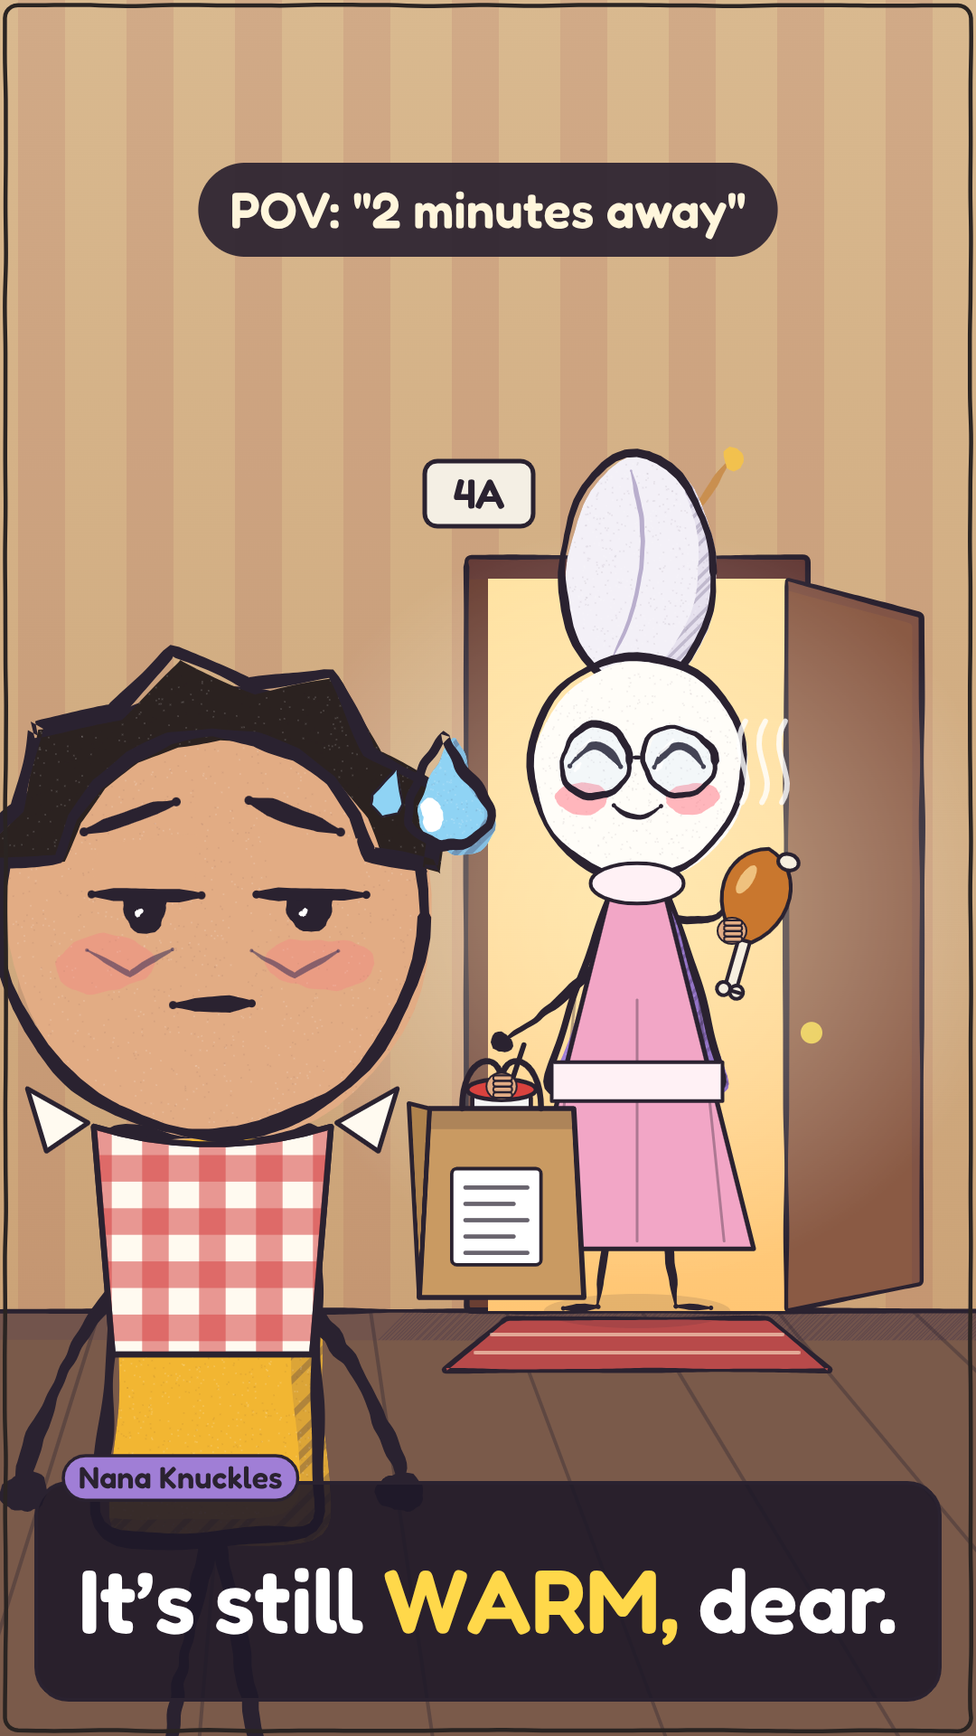
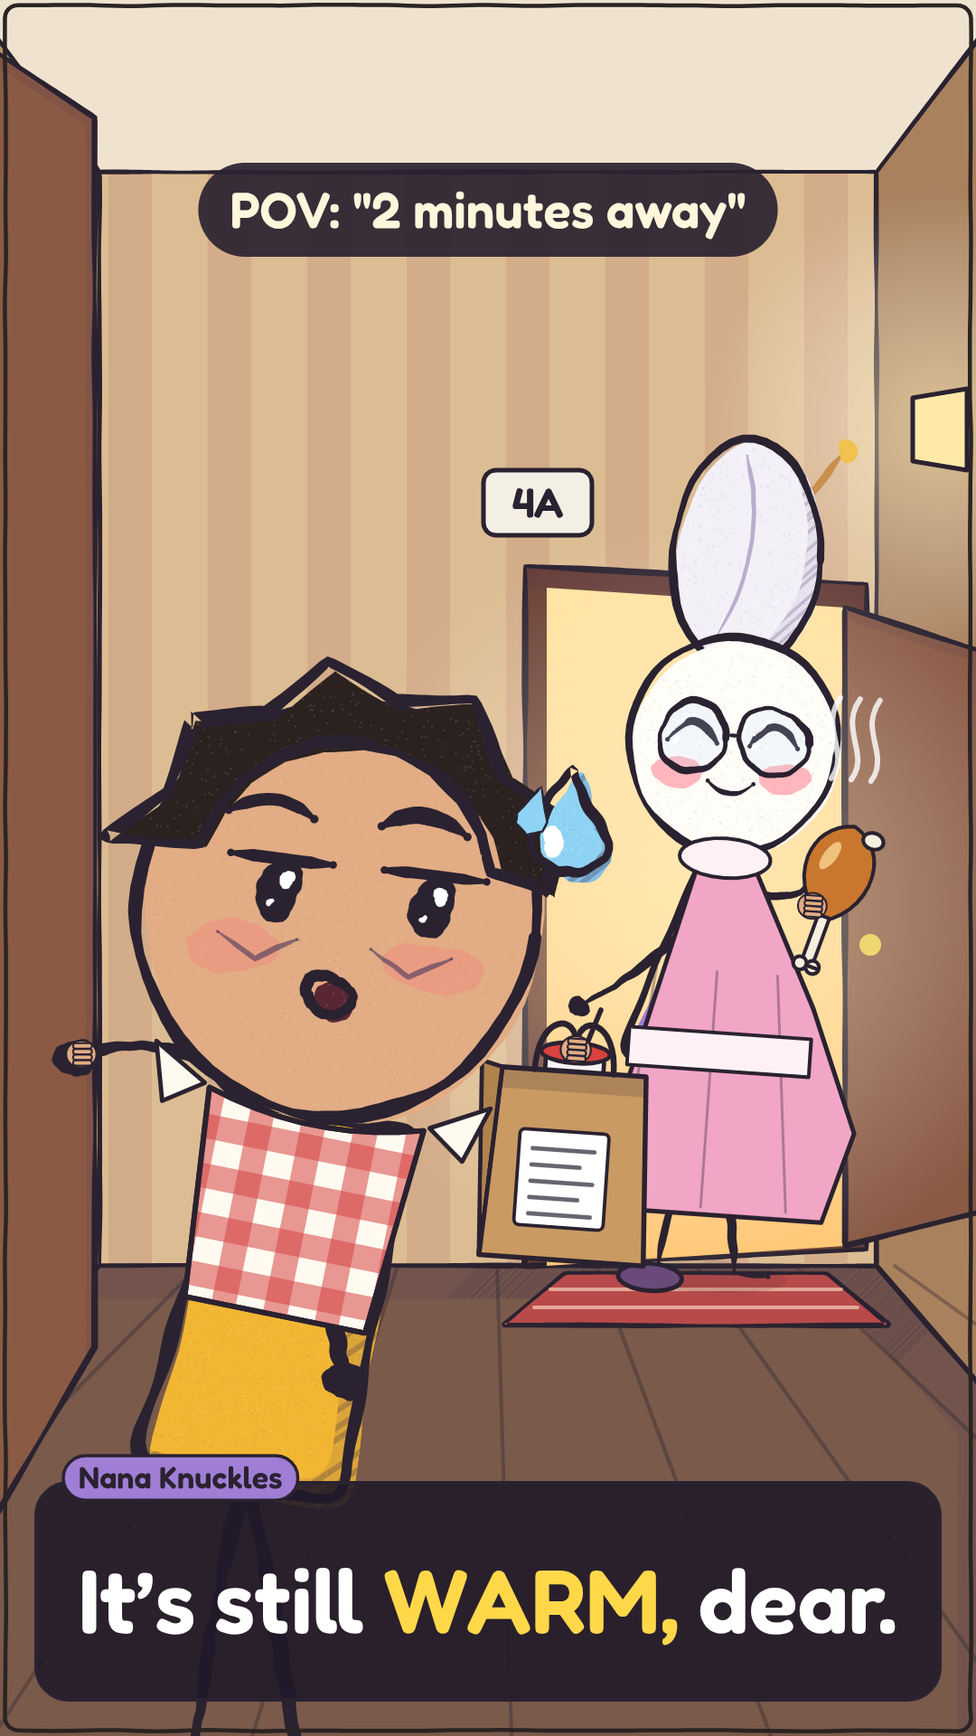
Tập 11 Two Minutes Away: key stills round 3 (owner notes)

diff --git a/episodes/20-two-minutes/film/stills.js b/episodes/20-two-minutes/film/stills.js
@@ -69,8 +69,8 @@ function drumstick(x, y, rot, sz = 1) {   // grip end at (x,y), meat towards -y
   ctx.fillStyle = '#f6efe0'; ctx.beginPath(); ctx.ellipse(28, -178, 14, 11, 0, 0, 7); ctx.fill(); ctx.stroke();   // bitten edge
   ctx.restore();
 }
-function napkin(x, y, w, k = 1) {   // bib tied round the neck at (x,y)=top centre
-  ctx.save(); ctx.translate(x, y); ctx.scale(k, k);
+function napkin(x, y, w, k = 1, rot = 0) {   // bib tied round the neck at (x,y)=top centre
+  ctx.save(); ctx.translate(x, y); ctx.rotate(rot); ctx.scale(k, k);
   outline(() => { ctx.moveTo(-w / 2, 0); ctx.quadraticCurveTo(0, 38, w / 2, 0); ctx.lineTo(w * 0.42, 240); ctx.lineTo(-w * 0.42, 240); ctx.closePath(); }, '#fffaf0', 6);
   ctx.save(); ctx.clip(); ctx.fillStyle = 'rgba(214,70,70,0.55)';
   for (let i = -4; i < 5; i++) ctx.fillRect(i * 60 - 14, 0, 28, 260); for (let j = 0; j < 5; j++) ctx.fillRect(-w, 30 + j * 56, 2 * w, 28); ctx.restore();
@@ -89,67 +89,86 @@ function candle(x, y, h, t) {
   outline(() => { ctx.ellipse(x, y - h - 34, 7, 14, 0, 0, 7); }, '#fff6b0', 0.1);
 }
 
+
+// place a leaning Steve so his head centre is at (hx,hy); returns body origin + helpers (lean th in radians, clockwise)
+function placeSteve(hx, hy, sc, th) { return { X: hx - 42 * sc * Math.sin(th), Y: hy + 38 * sc + 42 * sc * Math.cos(th), sc, th }; }
+function neckOf(P) { const { X, Y, sc, th } = P; return [X + 27 * sc * Math.sin(th) * -1 * -1, Y - 38 * sc - 27 * sc * Math.cos(th)]; }
+function handLocal(P, T) {   // arm pose that reaches world point T despite the lean
+  const { X, Y, sc, th } = P, px = X, py = Y - 38 * sc, vx = T[0] - px, vy = T[1] - py;
+  const ux = vx * Math.cos(th) + vy * Math.sin(th), uy = -vx * Math.sin(th) + vy * Math.cos(th);
+  const shY = Y - 60 * sc; return { hand: [ux / sc, (shY - (py + uy)) / sc], bend: [0, 4] };
+}
+function drool(x, y, len) { ctx.save(); ctx.strokeStyle = INK; ctx.fillStyle = '#d9f0ff'; ctx.lineWidth = 4; ctx.beginPath(); ctx.moveTo(x - 7, y); ctx.lineTo(x - 5, y + len); ctx.arc(x, y + len, 9, Math.PI, 0, true); ctx.lineTo(x + 7, y); ctx.closePath(); ctx.fill(); ctx.stroke(); ctx.restore(); }
+function squiggle(x, y, w, dir = 1) { ctx.save(); ctx.strokeStyle = INK; ctx.lineWidth = 7; ctx.lineCap = 'round'; ctx.lineJoin = 'round'; ctx.beginPath(); ctx.moveTo(x, y); for (let i = 1; i <= 5; i++) ctx.lineTo(x + dir * (i * w / 5), y + (i % 2 ? -16 : 16)); ctx.stroke(); ctx.restore(); }
+
 // ---------- STILL 1 · HOOK (glance test) ----------
 function still1(t) {
   SEED = 5;
   const g = ctx.createLinearGradient(0, 0, 0, H); g.addColorStop(0, '#2b2036'); g.addColorStop(1, '#4a2f3a'); ctx.fillStyle = g; ctx.fillRect(0, 0, W, H);
-  const p = spen(t, 3);
-  // table top
-  p.part(roundPoly([[-60, 900], [1140, 900], [1140, 1930], [-60, 1930]], 20), '#8e3b46', { shade: 0.1, lw: 6 });
-  ctx.save(); ctx.fillStyle = 'rgba(255,240,220,0.13)'; for (let i = 0; i < 9; i++) ctx.fillRect(i * 140 - 20, 900, 70, 1030); ctx.restore();
-  const s = 19, X = 540, hc0 = 625, Y = hc0 + 80 * s;
-  candle(905, 920, 100, t);
-  drawCharacter(ctx, 'steve', X, Y, s, { eyes: 'dot', lid: 0.55, brow: 'worried', mouth: 'line', fx: ['gloom', 'sweat'], look: 0, hair: 0, bags: 1, arm: 'down' }, { frame: boilFrame(t) });
-  const hc = headOf(X, Y, s); faceGlow(hc, 'rgba(255,120,90,0.45)', 0, 260);
-  // empty plate under the phone: clear white rim + well
+  const s = 19, X = 540, hc0 = 625, Y = hc0 + 80 * s, shY = Y - 60 * s;
+  glowBlob(540, 700, 600, 'rgba(255,170,90,0.18)');
+  drawCharacter(ctx, 'steve', X, Y, s, { eyes: 'dot', lid: 0.45, brow: 'worried', mouth: 'small', fx: ['gloom', 'sweat'], look: 0, hair: 0, bags: 1,
+    armL: armTo(X, shY, s, 120, 800, [0, 5]), armR: armTo(X, shY, s, 960, 800, [0, 5]) }, { frame: boilFrame(t) });
+  // extra dark sunken bags + drool
+  { const hc = headOf(X, Y, s); faceGlow(hc, 'rgba(255,120,90,0.4)', 0, 260);
+    ctx.save(); ctx.strokeStyle = 'rgba(60,30,50,0.55)'; ctx.lineWidth = 12; ctx.lineCap = 'round';
+    for (const ex of [-1, 1]) { ctx.beginPath(); ctx.arc(X + ex * 7.2 * s, hc0 + 6 * s, 58, 0.25 * Math.PI, 0.75 * Math.PI); ctx.stroke(); } ctx.restore();
+    drool(X + 20, hc0 + 6.8 * s, 70); }
+  napkin(X, hc0 + 15 * s - 6, 250, 1.25);
+  // table top edge (hides his lap) with cloth drape
+  const tp = spen(t, 3);
+  tp.part(roundPoly([[-60, 1250], [1140, 1250], [1140, 1930], [-60, 1930]], 12), '#8e3b46', { shade: 0.1, lw: 6 });
+  ctx.save(); ctx.fillStyle = 'rgba(255,240,220,0.13)'; for (let i = 0; i < 9; i++) ctx.fillRect(i * 140 - 20, 1262, 70, 670); ctx.restore();
+  ctx.fillStyle = 'rgba(0,0,0,0.25)'; ctx.fillRect(0, 1250, W, 16);
+  candle(985, 1245, 90, t);
+  squiggle(280, 1110, 80, -1); squiggle(800, 1110, 80, 1); squiggle(300, 1170, 70, -1); squiggle(780, 1170, 70, 1);   // stomach growl
+  // empty plate with a clear white rim, phone propped on it
   ctx.save(); ctx.shadowColor = 'rgba(0,0,0,0.45)'; ctx.shadowBlur = 24; ctx.shadowOffsetY = 12;
-  outline(() => { ctx.ellipse(540, 1480, 545, 235, 0, 0, 7); }, '#fbfaf5', 8); ctx.restore();
-  outline(() => { ctx.ellipse(540, 1495, 440, 175, 0, 0, 7); }, '#e8e5db', 4);
-  // arms: sleeves from the shoulders (behind the phone) up to fists holding the knife and fork
-  for (const [hx, sx] of [[115, 1], [965, -1]]) {
-    const pts = [[540 - sx * 150 * -1 * -1, 0]];
-    ctx.save(); ctx.lineCap = 'round'; ctx.lineJoin = 'round';
-    const path = () => { ctx.beginPath(); ctx.moveTo(540 + (hx < 540 ? -150 : 150), 925); ctx.quadraticCurveTo(hx < 540 ? 80 : 1000, 975, hx, 800); };
-    ctx.strokeStyle = INK; ctx.lineWidth = 36; path(); ctx.stroke(); ctx.strokeStyle = '#e2b23c'; ctx.lineWidth = 24; path(); ctx.stroke(); ctx.restore();
-  }
-  knife(115, 855, 160); fist(115, 805); fork(965, 855, 160); fist(965, 805);
-  // phone (dark bezel, notch, light screen) propped on the plate; red badge only behind the text
-  const px = 540, py = 1255, pw = 960, ph = 650; glowBlob(px, py, 760, 'rgba(255,90,70,0.3)');
-  ctx.save(); ctx.translate(px, py); const q = spen(0.1, 9);
-  q.part(roundPoly([[-pw / 2, -ph / 2], [pw / 2, -ph / 2], [pw / 2, ph / 2], [-pw / 2, ph / 2]], 64), '#1b1f33', { shade: 0.08, lw: 7 });
-  ctx.fillStyle = '#f6f7fc'; ctx.beginPath(); ctx.roundRect(-pw / 2 + 38, -ph / 2 + 30, pw - 76, ph - 60, 34); ctx.fill();
-  ctx.fillStyle = '#1b1f33'; ctx.beginPath(); ctx.roundRect(-pw / 2 + 38, -34, 20, 68, 10); ctx.fill();   // notch / camera pill on the left edge
-  ctx.fillStyle = '#d9dcec'; ctx.beginPath(); ctx.roundRect(pw / 2 - 38 - 14, -60, 6, 120, 3); ctx.fill();
-  // scooter icon (no logo)
-  ctx.save(); ctx.translate(0, -208); ctx.strokeStyle = INK; ctx.fillStyle = INK; ctx.lineWidth = 11; ctx.lineCap = 'round'; ctx.lineJoin = 'round';
+  outline(() => { ctx.ellipse(540, 1520, 520, 175, 0, 0, 7); }, '#fbfaf5', 8); ctx.restore();
+  outline(() => { ctx.ellipse(540, 1530, 420, 130, 0, 0, 7); }, '#e8e5db', 4);
+  knife(120, 850, 160); fist(120, 800); fork(960, 850, 160); fist(960, 800);
+  const px = 540, py = 1385, pw = 800, ph = 520; glowBlob(px, py, 600, 'rgba(255,90,70,0.25)');
+  ctx.save(); ctx.translate(px, py); ctx.rotate(-0.045); const q = spen(0.1, 9);
+  q.part(roundPoly([[-pw / 2, -ph / 2], [pw / 2, -ph / 2], [pw / 2, ph / 2], [-pw / 2, ph / 2]], 56), '#1b1f33', { shade: 0.08, lw: 7 });
+  ctx.fillStyle = '#f6f7fc'; ctx.beginPath(); ctx.roundRect(-pw / 2 + 32, -ph / 2 + 26, pw - 64, ph - 52, 30); ctx.fill();
+  ctx.fillStyle = '#1b1f33'; ctx.beginPath(); ctx.roundRect(-pw / 2 + 32, -30, 18, 60, 9); ctx.fill();
+  ctx.save(); ctx.translate(0, -160); ctx.scale(0.8, 0.8); ctx.strokeStyle = INK; ctx.fillStyle = INK; ctx.lineWidth = 11; ctx.lineCap = 'round'; ctx.lineJoin = 'round';
   for (const wx of [-62, 62]) { ctx.beginPath(); ctx.arc(wx, 30, 24, 0, 7); ctx.stroke(); }
   ctx.beginPath(); ctx.moveTo(-62, 30); ctx.lineTo(-30, 30); ctx.lineTo(0, -4); ctx.lineTo(40, -4); ctx.lineTo(62, 30); ctx.stroke();
   ctx.beginPath(); ctx.moveTo(40, -4); ctx.lineTo(28, -40); ctx.lineTo(50, -40); ctx.stroke(); ctx.beginPath(); ctx.roundRect(-92, -34, 62, 40, 8); ctx.fill(); ctx.restore();
-  ctx.fillStyle = '#e8262f'; ctx.beginPath(); ctx.roundRect(-400, -100, 800, 290, 60); ctx.fill(); ctx.lineWidth = 8; ctx.strokeStyle = INK; ctx.stroke();
-  ctx.lineJoin = 'round'; ctx.lineWidth = 18; ctx.font = '600 270px Fredoka'; ctx.textAlign = 'center'; ctx.textBaseline = 'middle';
-  ctx.strokeText('2 MIN', 0, 55); ctx.fillStyle = '#fff6dc'; ctx.fillText('2 MIN', 0, 55);
+  ctx.fillStyle = '#e8262f'; ctx.beginPath(); ctx.roundRect(-310, -75, 620, 240, 52); ctx.fill(); ctx.lineWidth = 8; ctx.strokeStyle = INK; ctx.stroke();
+  ctx.lineJoin = 'round'; ctx.lineWidth = 16; ctx.font = '600 225px Fredoka'; ctx.textAlign = 'center'; ctx.textBaseline = 'middle';
+  ctx.strokeText('2 MIN', 0, 48); ctx.fillStyle = '#fff6dc'; ctx.fillText('2 MIN', 0, 48);
   ctx.restore();
   { const dp = spen(t, 31); drop(dp, 150, 520, 26, 0.3); drop(dp, 905, 440, 22, -0.2); }
   title(); plate('steve', ['Two MINUTES.'], ['MINUTES']);
 }
 
-// ---------- hallway (stills 2 + 3) ----------
+// ---------- hallway in perspective (stills 2 + 3) ----------
 function hall(t, doorX, doorW, doorTop, floorY, lx = doorX - doorW / 2 - 10, ly = doorTop - 94) {
+  const FL = 110, FR = 970;   // far wall spans FL..FR; side walls recede to the viewer
   const g = ctx.createLinearGradient(0, 0, 0, H); g.addColorStop(0, '#d9b98f'); g.addColorStop(1, '#c79c70'); ctx.fillStyle = g; ctx.fillRect(0, 0, W, H);
-  ctx.save(); ctx.fillStyle = 'rgba(150,60,70,0.12)'; for (let x = 20; x < W; x += 120) ctx.fillRect(x, 0, 52, floorY); ctx.restore();   // wallpaper stripes
   const p = spen(t, 3);
-  p.part(roundPoly([[-40, floorY], [1120, floorY], [1120, 1940], [-40, 1940]], 6), '#7a5a4a', { shade: 0.1, lw: 6 });
-  ctx.save(); ctx.strokeStyle = 'rgba(42,34,48,0.35)'; ctx.lineWidth = 4; for (let i = 0; i < 8; i++) { ctx.beginPath(); ctx.moveTo(i * 150 - 40, floorY); ctx.lineTo(i * 260 - 300, 1930); ctx.stroke(); } ctx.restore();
-  // open door: lit interior, frame, door leaf swung
-  p.part(roundPoly([[doorX - doorW / 2 - 24, doorTop - 24], [doorX + doorW / 2 + 24, doorTop - 24], [doorX + doorW / 2 + 24, floorY], [doorX - doorW / 2 - 24, floorY]], 6), '#6a3f33', { shade: 0.1, lw: 6 });
+  p.part(roundPoly([[FL, 190], [FR, 190], [FR, floorY], [FL, floorY]], 2), '#dcbc92', { shade: false, lw: 5 });
+  ctx.save(); ctx.fillStyle = 'rgba(150,60,70,0.12)'; for (let x = FL + 10; x < FR; x += 110) ctx.fillRect(x, 190, 48, floorY - 190); ctx.restore();
+  p.part([[-20, 20], [FL, 190], [FL, floorY], [-20, floorY + 150]], '#b98f68', { shade: false, lw: 5 });          // left wall
+  p.part([[1100, 20], [FR, 190], [FR, floorY], [1100, floorY + 150]], '#a9815d', { shade: false, lw: 5 });         // right wall
+  p.part([[-20, -20], [1100, -20], [1100, 20], [FR, 190], [FL, 190], [-20, 20]], '#efe3cf', { shade: false, lw: 5 }); // ceiling
+  p.part([[-20, floorY + 150], [FL, floorY], [FR, floorY], [1100, floorY + 150], [1100, 1950], [-20, 1950]], '#7a5a4a', { shade: 0.1, lw: 5 });
+  ctx.save(); ctx.strokeStyle = 'rgba(42,34,48,0.35)'; ctx.lineWidth = 4;
+  for (let i = -3; i <= 9; i++) { const x0 = FL + i * 110; ctx.beginPath(); ctx.moveTo(x0, floorY); ctx.lineTo(540 + (x0 - 540) * 2.7, 1950); ctx.stroke(); } ctx.restore();
+  // wall sconce on the right wall
+  glowBlob(1040, 470, 260, 'rgba(255,225,150,0.55)'); outline(() => { ctx.moveTo(1010, 440); ctx.lineTo(1070, 430); ctx.lineTo(1070, 520); ctx.lineTo(1010, 510); ctx.closePath(); }, '#ffe9a8', 5);
+  // open door (opening slightly skewed in perspective), lit interior, frame, leaf swung toward the viewer
+  const L = doorX - doorW / 2, R = doorX + doorW / 2;
+  p.part([[L - 24, doorTop - 24], [R + 24, doorTop - 4], [R + 24, floorY - 18], [L - 24, floorY]], '#6a3f33', { shade: 0.1, lw: 6 });
   const ig = ctx.createLinearGradient(0, doorTop, 0, floorY); ig.addColorStop(0, '#ffe2a0'); ig.addColorStop(1, '#ffc674');
-  ctx.fillStyle = ig; ctx.fillRect(doorX - doorW / 2, doorTop, doorW, floorY - doorTop);
-  p.part(roundPoly([[doorX + doorW / 2, doorTop], [doorX + doorW / 2 + 150, doorTop + 40], [doorX + doorW / 2 + 150, floorY - 30], [doorX + doorW / 2, floorY]], 4), '#8a5a44', { shade: 0.1, lw: 6 });
-  ctx.fillStyle = '#e8c84a'; ctx.beginPath(); ctx.arc(doorX + doorW / 2 + 28, floorY * 0.62 + doorTop * 0.38, 12, 0, 7); ctx.fill();
+  ctx.fillStyle = ig; ctx.beginPath(); ctx.moveTo(L, doorTop); ctx.lineTo(R, doorTop + 22); ctx.lineTo(R, floorY - 22); ctx.lineTo(L, floorY); ctx.fill();
+  p.part([[R, doorTop + 22], [R + 150, doorTop + 70], [R + 150, floorY - 60], [R, floorY - 22]], '#8a5a44', { shade: 0.1, lw: 6 });
+  ctx.fillStyle = '#e8c84a'; ctx.beginPath(); ctx.arc(R + 28, (doorTop + floorY) / 2 + 20, 12, 0, 7); ctx.fill();
   outline(() => { ctx.roundRect(lx - 60, ly - 36, 120, 72, 14); }, '#f4efe4', 5); text('4A', lx, ly + 2, 46, INK);
-  // flat welcome mat in perspective (wider at the front edge), thin stripes
-  p.part(roundPoly([[doorX - doorW / 2 + 20, floorY + 8], [doorX + doorW / 2 - 20, floorY + 8], [doorX + doorW / 2 + 50, floorY + 66], [doorX - doorW / 2 - 50, floorY + 66]], 4), '#b84a4a', { shade: false, lw: 5 });
-  ctx.save(); ctx.strokeStyle = 'rgba(255,230,200,0.6)'; ctx.lineWidth = 4; ctx.beginPath(); ctx.moveTo(doorX - doorW / 2 + 4, floorY + 26); ctx.lineTo(doorX + doorW / 2 - 4, floorY + 26); ctx.moveTo(doorX - doorW / 2 - 14, floorY + 46); ctx.lineTo(doorX + doorW / 2 + 14, floorY + 46); ctx.stroke(); ctx.restore();
+  p.part(roundPoly([[L + 20, floorY + 8], [R - 20, floorY + 8], [R + 50, floorY + 66], [L - 50, floorY + 66]], 4), '#b84a4a', { shade: false, lw: 5 });
+  ctx.save(); ctx.strokeStyle = 'rgba(255,230,200,0.6)'; ctx.lineWidth = 4; ctx.beginPath(); ctx.moveTo(L + 4, floorY + 26); ctx.lineTo(R - 4, floorY + 26); ctx.moveTo(L - 14, floorY + 46); ctx.lineTo(R + 14, floorY + 46); ctx.stroke(); ctx.restore();
 }
 function bag(x, y, k = 1) {   // takeaway bag hanging from (x,y): cup lid + straw peeking out, receipt sticker, twisted handles
   ctx.save(); ctx.translate(x, y); ctx.scale(k, k); ctx.strokeStyle = INK; ctx.lineWidth = 6; ctx.lineJoin = 'round'; ctx.lineCap = 'round';
@@ -164,48 +183,56 @@ function bag(x, y, k = 1) {   // takeaway bag hanging from (x,y): cup lid + stra
   ctx.strokeStyle = INK; ctx.lineWidth = 7; ctx.beginPath(); ctx.moveTo(-46, 30); ctx.bezierCurveTo(-46, -34, 0, -40, 0, 0); ctx.bezierCurveTo(0, -40, 46, -34, 46, 30); ctx.stroke();   // handles
   ctx.restore();
 }
-function nanaDraw(t, X, Y, s, hands) {
-  drawCharacter(ctx, 'nana', X, Y, s, { expr: 'happy', mouth: 'smile', eyes: 'happy', fx: ['blush'], ...hands }, { frame: boilFrame(t) });
-  // dressing gown over the dress: pink quilted robe, belt, fluffy collar
-  const sc = s;
-  outline(() => { ctx.moveTo(X - 3 * sc, Y - 56 * sc); ctx.lineTo(X + 3 * sc, Y - 56 * sc); ctx.lineTo(X + 15 * sc, Y - 8 * sc); ctx.lineTo(X - 15 * sc, Y - 8 * sc); ctx.closePath(); }, '#f2a6c6', 5);
-  ctx.save(); ctx.strokeStyle = 'rgba(42,34,48,0.35)'; ctx.lineWidth = 3; for (const dx of [-8, 0, 8]) { ctx.beginPath(); ctx.moveTo(X + dx * sc, Y - 40 * sc); ctx.lineTo(X + dx * sc * 1.4, Y - 9 * sc); ctx.stroke(); } ctx.restore();
-  outline(() => { ctx.rect(X - 11 * sc, Y - 32 * sc, 22 * sc, 5 * sc); }, '#fff1f5', 4);
-  outline(() => { ctx.ellipse(X, Y - 55 * sc, 6 * sc, 2.6 * sc, 0, 0, 7); }, '#fff1f5', 4);
+function nanaScene(t, X, Y, s, rot, hands, props) {   // whole-body cosy lean around the feet, hip out, front foot forward
+  ctx.save(); ctx.translate(X, Y); ctx.rotate(rot); ctx.translate(-X, -Y);
+  drawCharacter(ctx, 'nana', X, Y, s, { expr: 'happy', mouth: 'smile', eyes: 'happy', fx: ['blush'], tilt: -6, ...hands }, { frame: boilFrame(t) });
+  outline(() => { ctx.moveTo(X - 3 * s, Y - 56 * s); ctx.lineTo(X + 3 * s, Y - 56 * s); ctx.lineTo(X + 13 * s, Y - 36 * s); ctx.lineTo(X + 19.5 * s, Y - 20 * s); ctx.lineTo(X + 16 * s, Y - 8 * s); ctx.lineTo(X - 15 * s, Y - 8 * s); ctx.closePath(); }, '#f2a6c6', 5);
+  ctx.save(); ctx.strokeStyle = 'rgba(42,34,48,0.35)'; ctx.lineWidth = 3; for (const dx of [-8, 0, 8]) { ctx.beginPath(); ctx.moveTo(X + dx * s, Y - 40 * s); ctx.lineTo(X + dx * s * 1.4, Y - 9 * s); ctx.stroke(); } ctx.restore();
+  outline(() => { ctx.rect(X - 11 * s, Y - 32 * s, 24 * s, 5 * s); }, '#fff1f5', 4);
+  outline(() => { ctx.ellipse(X, Y - 55 * s, 6 * s, 2.6 * s, 0, 0, 7); }, '#fff1f5', 4);
+  outline(() => { ctx.ellipse(X - 6 * s, Y + 6, 4.2 * s, 1.8 * s, 0, 0, 7); }, '#6a4a7a', 5);   // front slipper
+  props && props();
+  ctx.restore();
 }
 
 // ---------- STILL 2 · beat 8 ----------
 function still2(t) {
-  SEED = 9; hall(t, 705, 330, 640, 1450);
-  const ns = 8.6, NX = 705, NY = 1450, nshY = NY - 52 * 0.9 * ns;
-  // Nana: left arm (screen left) holds the bag, right arm lifts the drumstick to her smile
+  SEED = 9; hall(t, 770, 330, 650, 1400);
+  const ns = 8.4, NX = 770, NY = 1410, nshY = NY - 52 * 0.9 * ns;
   glowBlob(NX, 1000, 420, 'rgba(255,220,150,0.5)');
-  nanaDraw(t, NX, NY, ns, { armL: armTo(NX, nshY, ns * 0.9, NX - 150, nshY + 150, [0, -2]), armR: armTo(NX, nshY, ns * 0.9, NX + 105, nshY - 20, [3, -3]) });
-  bag(NX - 150, nshY + 150, 0.95); fist(NX - 150, nshY + 154, 0.42);
-  drumstick(NX + 105, nshY + 40, 0.28, 0.82); fist(NX + 105, nshY - 18, 0.4);
-  // steam from the food
-  ctx.save(); ctx.strokeStyle = 'rgba(255,255,255,0.8)'; ctx.lineWidth = 6; ctx.lineCap = 'round'; for (const dx of [-14, 8, 30]) { ctx.beginPath(); ctx.moveTo(NX + 130 + dx, nshY - 160); ctx.bezierCurveTo(NX + 150 + dx, nshY - 190, NX + 112 + dx, nshY - 215, NX + 134 + dx, nshY - 250); ctx.stroke(); } ctx.restore();
-  // Steve in the foreground-left with the napkin bib, looking across the hall
-  const s = 16, X = 235, hc0 = 1010, Y = hc0 + 80 * s, shY = Y - 60 * s;
-  drawCharacter(ctx, 'steve', X, Y, s, { eyes: 'dot', lid: 0.5, brow: 'worried', mouth: 'line', fx: ['sweat'], look: 0.9, hair: 0, bags: 1 }, { frame: boilFrame(t) });
-  napkin(X, hc0 + 15 * s - 4, 250, 1.05);
-  { const dp = spen(t, 31); drop(dp, 430, 880, 22, 0.3); }
-  title(); plate('nana', ['It’s still WARM, dear.'], ['WARM']);
+  nanaScene(t, NX, NY, ns, 0.07, { armL: armTo(NX, nshY, ns * 0.9, NX - 150, nshY + 150, [0, -2]), armR: armTo(NX, nshY, ns * 0.9, NX + 100, nshY - 25, [3, -3]) }, () => {
+    bag(NX - 150, nshY + 150, 0.95); fist(NX - 150, nshY + 154, 0.42);
+    drumstick(NX + 100, nshY + 35, 0.28, 0.82); fist(NX + 100, nshY - 23, 0.4);
+    ctx.save(); ctx.strokeStyle = 'rgba(255,255,255,0.8)'; ctx.lineWidth = 6; ctx.lineCap = 'round'; for (const dx of [-14, 8, 30]) { ctx.beginPath(); ctx.moveTo(NX + 125 + dx, nshY - 165); ctx.bezierCurveTo(NX + 145 + dx, nshY - 195, NX + 107 + dx, nshY - 220, NX + 129 + dx, nshY - 255); ctx.stroke(); } ctx.restore();
+  });
+  // Steve half out of his own door (left edge), twisted toward her, hand on the doorknob
+  const sd = spen(t, 5); sd.part([[-30, 40], [105, 130], [105, 1490], [-30, 1720]], '#8a5a44', { shade: 0.1, lw: 6 });
+  ctx.fillStyle = '#e8c84a'; ctx.beginPath(); ctx.arc(80, 1170, 16, 0, 7); ctx.fill(); ctx.strokeStyle = INK; ctx.lineWidth = 4; ctx.stroke();
+  const s = 15, th = 0.2, P = placeSteve(395, 1010, s, th), knob = [84, 1170];
+  drawCharacter(ctx, 'steve', P.X, P.Y, s, { eyes: 'dot', lid: 0.1, brow: 'raised', mouth: 'small', fx: ['sweat'], look: 0.9, hair: 0, bags: 1, lean: th * 180 / Math.PI, tilt: -5,
+    armL: handLocal(P, knob), armR: { hand: [6, -14], bend: [0, 2] } }, { frame: boilFrame(t) });
+  const nk = neckOf(P); napkin(nk[0], nk[1] - 4, 250, s / 15.5, th); fist(knob[0] + 6, knob[1] - 4, 0.42);
+  { const dp = spen(t, 31); drop(dp, 590, 900, 22, 0.3); }
+  title(); plate('nana', ['It\u2019s still WARM, dear.'], ['WARM']);
 }
 
 // ---------- STILL 3 · beat 9 punch ----------
 function still3(t) {
-  SEED = 12; hall(t, 840, 300, 610, 1450, 985, 440);
-  const ns = 8.2, NX = 850, NY = 1450, nshY = NY - 52 * 0.9 * ns;
-  glowBlob(NX, 1000, 400, 'rgba(255,220,150,0.5)');
-  nanaDraw(t, NX, NY, ns, { armL: armTo(NX, nshY, ns * 0.9, NX - 120, nshY + 140, [0, -2]), armR: armTo(NX, nshY, ns * 0.9, NX + 105, nshY - 150, [5, -3]) });
-  bag(NX - 120, nshY + 140, 0.9); fist(NX - 120, nshY + 144, 0.38);
-  drumstick(NX + 105, nshY - 130, 0.3, 0.8); fist(NX + 105, nshY - 150, 0.38);
-  const s = 21, X = 360, hc0 = 790, Y = hc0 + 80 * s, shY = Y - 60 * s;
-  drawCharacter(ctx, 'steve', X, Y, s, { eyes: 'dot', lid: 0.6, brow: undefined, mouth: 'line', fx: ['gloom', 'sweat'], look: 0.3, hair: 0, bags: 1 }, { frame: boilFrame(t) });
-  napkin(X, hc0 + 15 * s - 4, 300, 1.35);
-  { const dp = spen(t, 31); drop(dp, 700, 640, 26, 0.3); }
-  title(); plate('steve', ['…Enjoy.'], ['Enjoy']);
+  SEED = 12; hall(t, 880, 300, 620, 1400, 700, 480);
+  const ns = 9.4, NX = 860, NY = 1420, nshY = NY - 52 * 0.9 * ns;
+  glowBlob(NX, 1000, 420, 'rgba(255,220,150,0.5)');
+  nanaScene(t, NX, NY, ns, -0.05, { armL: armTo(NX, nshY, ns * 0.9, NX - 130, nshY + 150, [0, -2]), armR: armTo(NX, nshY, ns * 0.9, NX + 115, nshY - 170, [5, -3]) }, () => {
+    bag(NX - 130, nshY + 150, 0.9); fist(NX - 130, nshY + 154, 0.4);
+    ctx.save(); ctx.strokeStyle = INK; ctx.lineWidth = 6; ctx.lineCap = 'round';   // wave motion arcs
+    for (const a of [-2.3, -1.7, -1.1, -0.5]) { ctx.beginPath(); ctx.moveTo(NX + 125 + Math.cos(a) * 85, nshY - 250 + Math.sin(a) * 85); ctx.lineTo(NX + 125 + Math.cos(a) * 125, nshY - 250 + Math.sin(a) * 125); ctx.stroke(); }
+    ctx.restore();
+    drumstick(NX + 115, nshY - 150, 0.4, 0.86); fist(NX + 115, nshY - 170, 0.4);
+  });
+  const s = 23, th = 0.1, P = placeSteve(350, 800, s, th);
+  drawCharacter(ctx, 'steve', P.X, P.Y, s, { expr: 'dead_inside', lid: 0.72, brow: undefined, mouth: 'line', fx: ['gloom'], look: 0, hair: 0, bags: 1, lean: th * 180 / Math.PI, tilt: -9, headDy: -1.5 }, { frame: boilFrame(t) });
+  const nk = neckOf(P); napkin(nk[0], nk[1] - 4, 250, s / 15.5, th);
+  { const dp = spen(t, 31); drop(dp, 585, 740, 26, 0.3); }
+  title(); plate('steve', ['\u2026Enjoy.'], ['Enjoy']);
 }
 const STILLS = [still1, still2, still3];
 function render(i) {

diff --git a/episodes/20-two-minutes/STILLS-REVIEW.md b/episodes/20-two-minutes/STILLS-REVIEW.md
@@ -27,3 +27,12 @@ Checked against script.md, QA.md (Glance test, faces, text), CAST.md, Tập 10 r
 - S1: phone now reads as a phone (dark bezel, side camera pill, light screen, scooter icon, red badge only behind "2 MIN"); white plate rim visible around and below it; sleeves in mustard run from behind the phone up to the fists on knife and fork. Phone still ~ 30 % of frame.
 - S2/S3: bigger takeaway bag (twisted handles, white receipt sticker with lines, cup lid and straw peeking out); doormat flattened to the floor in perspective; S3 "4A" sign moved to the upper right, clear of hair and sweat drop.
 - Remaining: S1 sleeves only show their forearm part (shoulders hidden behind the phone).
+
+---
+# Round 3 (owner notes)
+Owner: "khung hình nhìn chưa ổn lắm". Picks: (1) phone covers Steve, (2) staging flat, (3) expressions.
+One notch each, rest kept (colours, captions, bag, 4A, plate):
+1. S1: phone shrunk to ~ 21 % of frame, tilted and propped on the plate; Steve's shoulders, napkin bib, stick arms to the fists on knife/fork and the table edge are visible; face stays ~ 27 %. "2 MIN" still legible in the 20 % copy.
+2. S2/S3: hallway now has perspective (side walls, ceiling, converging floor lines, skewed door opening, wall sconce). S2: Steve half out of his own door, body leaning toward her, hand on the doorknob. Nana leans cosily, hip out, front slipper forward. S3: closer camera, Steve's head tilted and slumped, Nana one notch bigger with drumstick mid-wave and motion ticks.
+3. Expressions: S1 starving (dark sunken bags, mouth open, drool, stomach squiggles); S2 hope collapsing (raised brows, small mouth); S3 dead inside (half lids, flat mouth, tilt).
+Open: Steve's lean makes his lower body a slanted mustard block (S2/S3); S3 "4A" sign is partly behind Nana's beehive; wave ticks are small.
